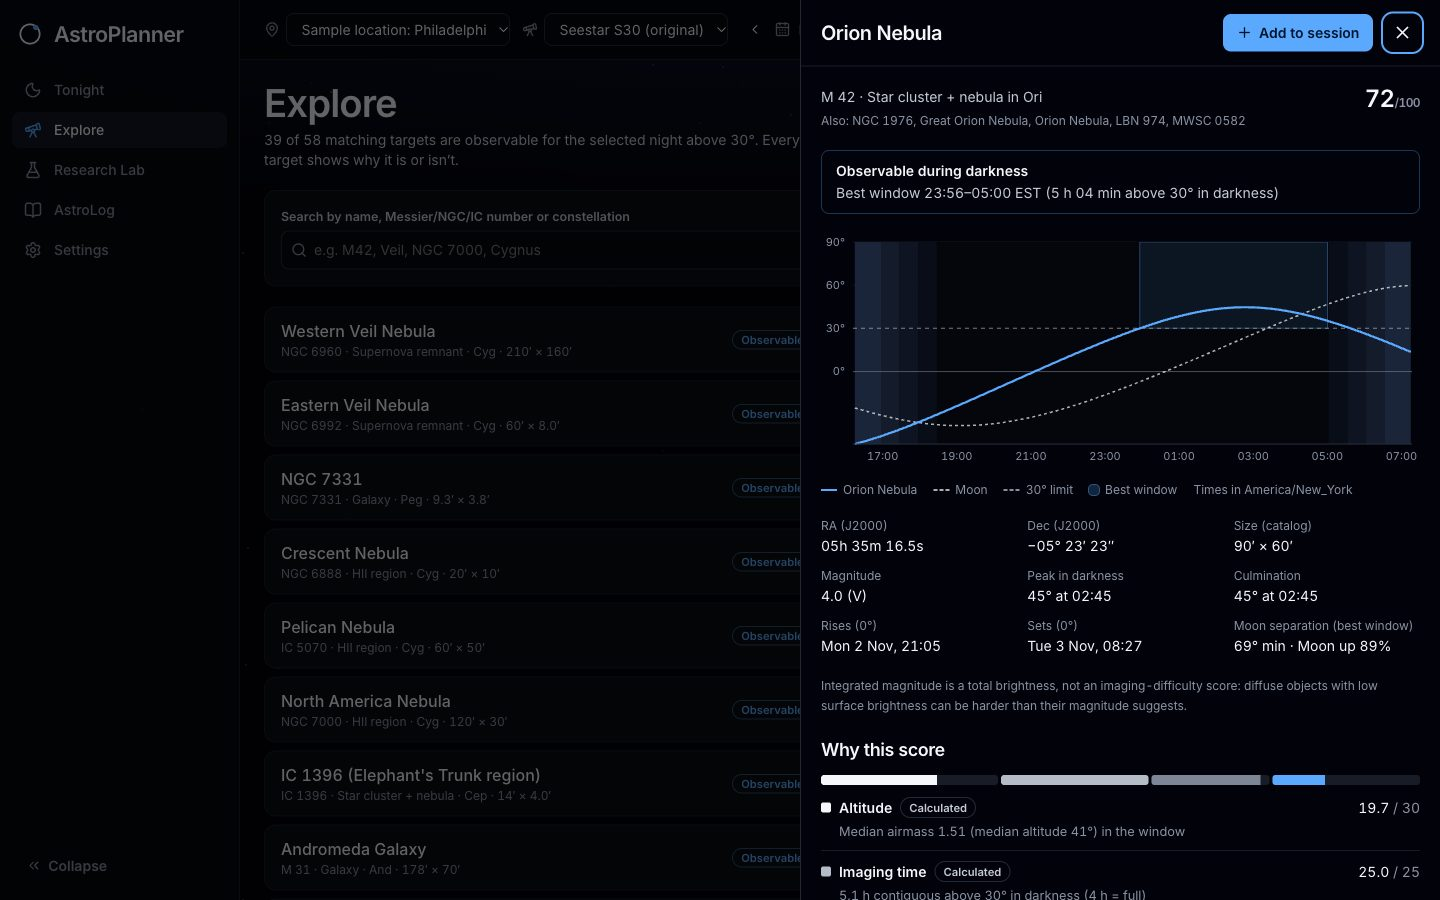
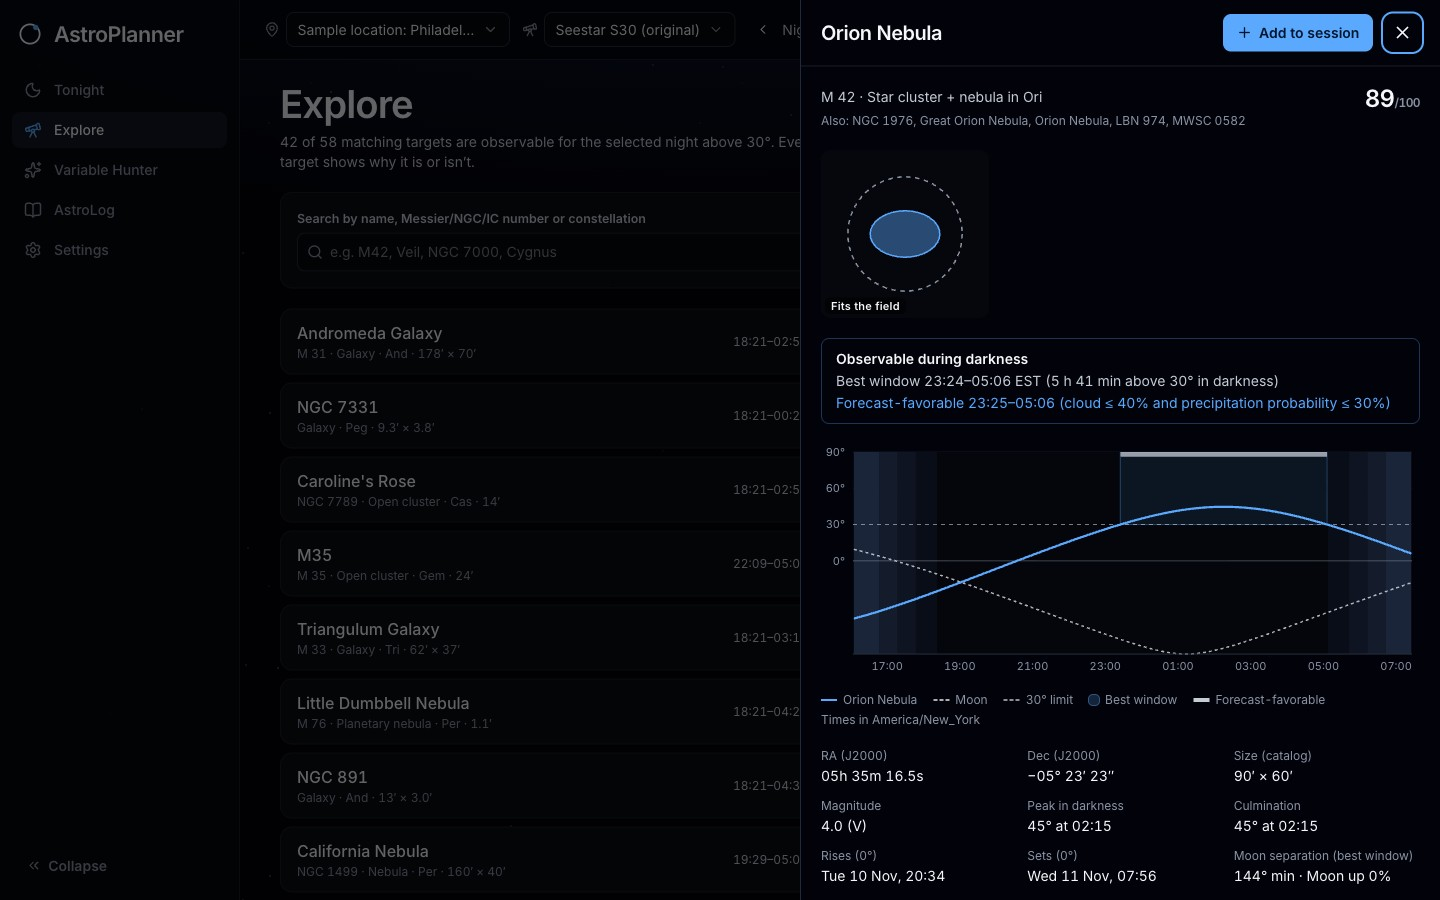
docs(landing): re-shoot app screenshots after the polish pass
All five landing screenshots re-shot at 1440 x 900 from a scratch server:
- Tonight, Explore (Orion Nebula), SS Cygni: sample location, night of 10 Nov.
- AstroLog library and Compare: the developer's own Bubble (1,015 x 10 s)
  and Dumbbell (344 x 10 s) nights of 11 Sept, imported into a fresh scratch
  database under the sample location; Compare shows their Siril stack.

The story clock, night label, footer and alt text now match the shots
(sunset 16:48, darkness 18:21, sunrise 06:41). Captions stay object-only
and NGC 7000 is confirmed, both by the developer.

Tests: tsc clean; vitest 276 passed; build ok; Playwright 36 passed,
2 skipped (phone-only on desktop).

diff --git a/frontend/src/components/landing/content.ts b/frontend/src/components/landing/content.ts
@@ -2,11 +2,13 @@
  * Landing page copy and pictures, kept as data so every claim is reviewable in one place.
  *
  * Accuracy rules (CLAUDE.md): every sentence describes shipped behaviour, and every time below comes from
- * the saved example night the screenshots show (Philadelphia, PA, night of Mon 2 Nov 2026: sunset 16:57,
- * astronomical darkness from 18:28, sunrise 06:32). None of it is presented as live data.
+ * the saved example night the screenshots show (Philadelphia, PA, night of Tue 10 Nov 2026: sunset 16:48,
+ * astronomical darkness from 18:21, sunrise 06:41). None of it is presented as live data. The AstroLog and
+ * processing screenshots show the developer's own Bubble and Dumbbell nights (11 Sept 2026), imported into a
+ * scratch copy of the app; their final pictures are the Seestar's own Bubble stack and the developer's M27 photo.
  */
 
-export const EXAMPLE_NIGHT_LABEL = "Times from an example night in Philadelphia, 2 Nov";
+export const EXAMPLE_NIGHT_LABEL = "Times from an example night in Philadelphia, 10 Nov";
 
 /** Twilight band shown behind the page while a chapter is in view (theme tokens, so night vision turns them red). */
 export type Sky = "civil" | "nautical" | "astronomical" | "dark";
@@ -28,13 +30,13 @@ export interface Chapter {
 export const CHAPTERS: Chapter[] = [
   {
     id: "tonight",
-    time: "16:57",
+    time: "16:48",
     moment: "Sunset",
     title: "Know if tonight is worth it.",
     body: "Clouds, rain, the Moon and real darkness for your exact spot, each one shown and each one labelled forecast or calculated. No mystery score.",
     shot: {
       src: "/landing/tonight-desktop.jpg",
-      alt: "The Tonight screen: a score with its four parts, cards for clouds, rain, the Moon and darkness, and a dusk-to-dawn chart.",
+      alt: "The Tonight screen: a heuristic score for the best two hours, an hour-by-hour strip from sunset to sunrise marking the forecast-clear stretch, and the night’s cloud, rain, Moon and darkness.",
     },
     // One label per destination across the page: every way into Tonight reads "See tonight’s sky".
     link: { to: "/tonight", label: "See tonight’s sky" },
@@ -43,13 +45,13 @@ export const CHAPTERS: Chapter[] = [
   },
   {
     id: "targets",
-    time: "18:28",
+    time: "18:21",
     moment: "Astronomical darkness",
     title: "Know what to point at, and when.",
     body: "58 deep-sky targets ranked for your sky tonight, with the hours each is high enough to shoot and how it fits the Seestar S30’s field.",
     shot: {
       src: "/landing/target-detail-desktop.jpg",
-      alt: "Explore with a target open: its altitude through the night, rise and set times, and why it scored as it did.",
+      alt: "Explore with the Orion Nebula open: how it fits the Seestar’s field, its best window, its altitude through the night, and rise and set times.",
     },
     link: { to: "/explore", label: "Browse targets" },
     sky: "astronomical",
@@ -57,7 +59,7 @@ export const CHAPTERS: Chapter[] = [
   },
   {
     id: "astrolog",
-    time: "06:32",
+    time: "06:41",
     moment: "Sunrise, pack up",
     title: "Every night, remembered.",
     body: "Drop in the Seestar’s folder. AstroLog reads the file headers, not your pictures, and files the night under each target you shot.",
@@ -77,7 +79,7 @@ export const CHAPTERS: Chapter[] = [
     body: "A ten-step coach for Siril, written for your exact files, that ends with your stack beside the Seestar’s own, measured the same way.",
     shot: {
       src: "/landing/processing-compare-desktop.jpg",
-      alt: "The processing coach on its last step, comparing a Siril stack with the Seestar’s stack using measured numbers.",
+      alt: "The processing coach on its last step for a Bubble Nebula night: the Siril stack shown with the same preview stretch, and a place to add the Seestar’s own stack beside it.",
     },
     sky: "astronomical",
     progress: 84,

diff --git a/frontend/e2e/landing.spec.ts b/frontend/e2e/landing.spec.ts
@@ -47,13 +47,13 @@ test("landing page tells the story first, with real pictures, and hands off to T
 test("the story clock follows the scroll and starts over at the top", async ({ page }) => {
   await page.goto("/");
   const clock = page.locator(".landing-clock-time");
-  await expect(clock).toHaveText("16:57");
+  await expect(clock).toHaveText("16:48");
   await page.locator('[data-chapter="astrolog"]').evaluate((el) => el.scrollIntoView({ block: "center" }));
-  await expect(clock).toHaveText("06:32");
+  await expect(clock).toHaveText("06:41");
   await page.evaluate(() => window.scrollTo(0, document.body.scrollHeight));
   await expect(clock).toHaveText("Next");
   await page.evaluate(() => window.scrollTo(0, 0));
-  await expect(clock).toHaveText("16:57");
+  await expect(clock).toHaveText("16:48");
 });
 
 test("night vision turns the landing pictures red only", async ({ page }) => {

diff --git a/frontend/src/pages/LandingPage.tsx b/frontend/src/pages/LandingPage.tsx
@@ -129,8 +129,8 @@ export function LandingPage() {
 
       <footer className="mx-auto mt-28 max-w-[1160px] border-t border-line-soft px-4 pt-7 pb-16 text-xs leading-relaxed text-muted sm:px-10">
         <p className="m-0">
-          Photos are the developer’s own captures. App screens show a saved example night (Philadelphia, 2 Nov), not live
-          data.
+          Photos, and the AstroLog and processing screens, come from the developer’s own nights. The planning screens show
+          a saved example night (Philadelphia, 10 Nov), not live data.
         </p>
         <p className="mt-2 mb-0">
           Targets from{" "}

diff --git a/PROGRESS.md b/PROGRESS.md
@@ -21,12 +21,13 @@ Decisions made while the developer was away are marked "my call" in the spec.
 | Design pass 1 (2026-11-10, developer asked for the Apple design guidance): press feedback, Inter optical-size Display cut for headings with size-specific tracking, rem layout, frosted header, reduce-transparency / increase-contrast fallbacks, gentler reduced motion, clock bar on `transform` | done | `landing.css`, browser check of computed styles under each media setting |
 | Design pass 2 (2026-11-10, anti-slop checklist): hero lede cut to 18 words, one CTA, no scroll cue, one label ("See tonight’s sky") for every way into Tonight, one eyebrow on the page, gallery header stacked, footer as sentences, tinted shadows, story clock on IntersectionObserver (no scroll listener) | done | `LandingPage.test.tsx` (one-label test), `e2e/landing.spec.ts` (clock incl. jump to top), Lighthouse mobile: Accessibility 100, Best Practices 100; trace LCP 1.7 s, CLS 0.00 (4× CPU, Fast 4G) |
 
-| Merge with `main` after the polish pass (PR #4) | done | Conflicts resolved in `App.tsx` (imports), `AppShell.tsx` (phone wordmark is a home link with the polish pass's tighter header), `e2e/smoke.spec.ts` (polish-pass tests that opened `/` now open `/tonight`), docs |
+| Merge with `main` after the polish pass (PR #4) | done | Conflicts resolved in `App.tsx` (imports), `AppShell.tsx` (phone wordmark is a home link with the polish pass's tighter header), `e2e/smoke.spec.ts` (polish-pass tests that opened `/` now open `/tonight`), docs. Merged as PR #5 |
+| Landing screenshots re-shot (2026-11-10, branch `landing-screenshots`) | done | All five `frontend/public/landing/*-desktop.jpg` at 1440 × 900 from a scratch server (own ports, sky images off). Tonight, Explore (Orion Nebula) and SS Cygni: sample location, night of 10 Nov. AstroLog library and Compare: the developer's own Bubble (1,015 × 10 s) and Dumbbell (344 × 10 s) nights of 11 Sept, imported into a fresh scratch database under the sample location (their own coordinates were never stored); final pictures are the Seestar's own Bubble stack and the developer's M27 photo; Compare shows their Siril stack (654 × 10 s). Clock times, night label, footer and alt text updated to match |
 
-### Commands last run (after merging `main`, 2026-11-10)
+### Commands last run (after the screenshot re-shoot, 2026-11-10)
 
 ```bash
-cd backend && .venv/bin/python -m pytest -q           # 453 passed, 12 skipped
+cd backend && .venv/bin/python -m pytest -q           # 453 passed, 12 skipped (run after the merge; the re-shoot changed no backend code)
 cd frontend && npx tsc -b --noEmit && npx vitest run  # typecheck clean; 276 passed (25 files)
 cd frontend && npm run build                          # built
 cd frontend && E2E_API_PORT=8130 E2E_WEB_PORT=5210 npx playwright test   # 36 passed, 2 skipped (phone-only tests on desktop), desktop + mobile
@@ -34,11 +35,12 @@ cd frontend && E2E_API_PORT=8130 E2E_WEB_PORT=5210 npx playwright test   # 36 pa
 
 ### Known limitations (landing page)
 
-- **Photo captions name the object only.** No telescope, exposure or date is shown for the five photos until the
-  developer supplies them. The North America Nebula file was named "NGC 7001" by its capture app; the caption
-  says NGC 7000 (what the picture shows) and should be confirmed.
-- **The app screenshots on the landing page are from 2 Nov**: the sidebar still says "Research Lab" and Tonight's
-  look predates the polish pass, which is now merged. Re-shoot `frontend/public/landing/*-desktop.jpg`.
+- **Photo captions name the object only**, by the developer's choice (2026-11-10). The North America Nebula file was
+  named "NGC 7001" by its capture app; the developer confirmed the caption NGC 7000.
+- **The landing screenshots are a snapshot of 10 Nov.** If Tonight, Explore, AstroLog, the coach or Variable Hunter
+  change look again, re-shoot them; the clock times in `components/landing/content.ts` must match the Tonight shot.
+- **The Compare shot shows one side measured.** Only the Siril stack was available; the Seestar's own stacked FITS
+  for that night was not, so its side shows the "add a stack" state.
 - **Old `/` bookmarks** now open the homescreen; Tonight is one click away (`/tonight`).
 - **No night-vision toggle on the landing page.** It honours the saved setting; the toggle lives in the app header.
 - The city-box e2e test uses live Open-Meteo geocoding and skips, with a reason, when it is unreachable.
@@ -50,10 +52,8 @@ cd frontend && E2E_API_PORT=8130 E2E_WEB_PORT=5210 npx playwright test   # 36 pa
 
 ### Exact next step (landing page)
 
-1. Re-shoot the landing page's app screenshots (`frontend/public/landing/*-desktop.jpg`) so they show the
-   polished Tonight and the current sidebar.
-2. Developer supplies caption details (scope, frames × exposure, date) for the five photos, or confirms
-   object-only captions, and confirms NGC 7000 for the file named "NGC 7001".
+1. Developer reviews and merges the re-shot screenshots (branch `landing-screenshots`). Nothing else is open for
+   the landing page; WebP/AVIF images and `robots.txt` wait for deployment.
 
 ## Previous work: polish pass (merged, PR #4)
 

diff --git a/README.md b/README.md
@@ -8,12 +8,13 @@ It is tuned first for the **ZWO Seestar S30** (original, not the S30 Pro).
 
 `/` is a landing page that tells the story before you touch a tool: the headline first, then a real
 capture (the developer's Andromeda Galaxy), then **one night, scrolled**. A sticky clock moves from sunset
-(16:57) through astronomical darkness (18:28) to sunrise (06:32) while the page sky darkens, and each
+(16:48) through astronomical darkness (18:21) to sunrise (06:41) while the page sky darkens, and each
 stop shows one part of the app (Tonight, Explore, AstroLog, Processing Coach, Variable Hunter). A gallery
 of real captures follows, then **Clear skies tonight?**: type a city and it opens Tonight for that place.
 It reuses a saved location within 1 km, never guesses a timezone, and hands the place to Settings if none
-can be found. The times come from a saved example night (Philadelphia, 2 Nov) and are labelled as such; the
-landing page shows no live data. Tonight itself now lives at **`/tonight`**.
+can be found. The times come from a saved example night (Philadelphia, 10 Nov) and are labelled as such; the
+landing page shows no live data. Its AstroLog and Processing Coach pictures are the developer's own Bubble and
+Dumbbell nights (11 Sept). Tonight itself now lives at **`/tonight`**.
 
 ![Landing page](docs/screenshots/landing-desktop.png)
 
